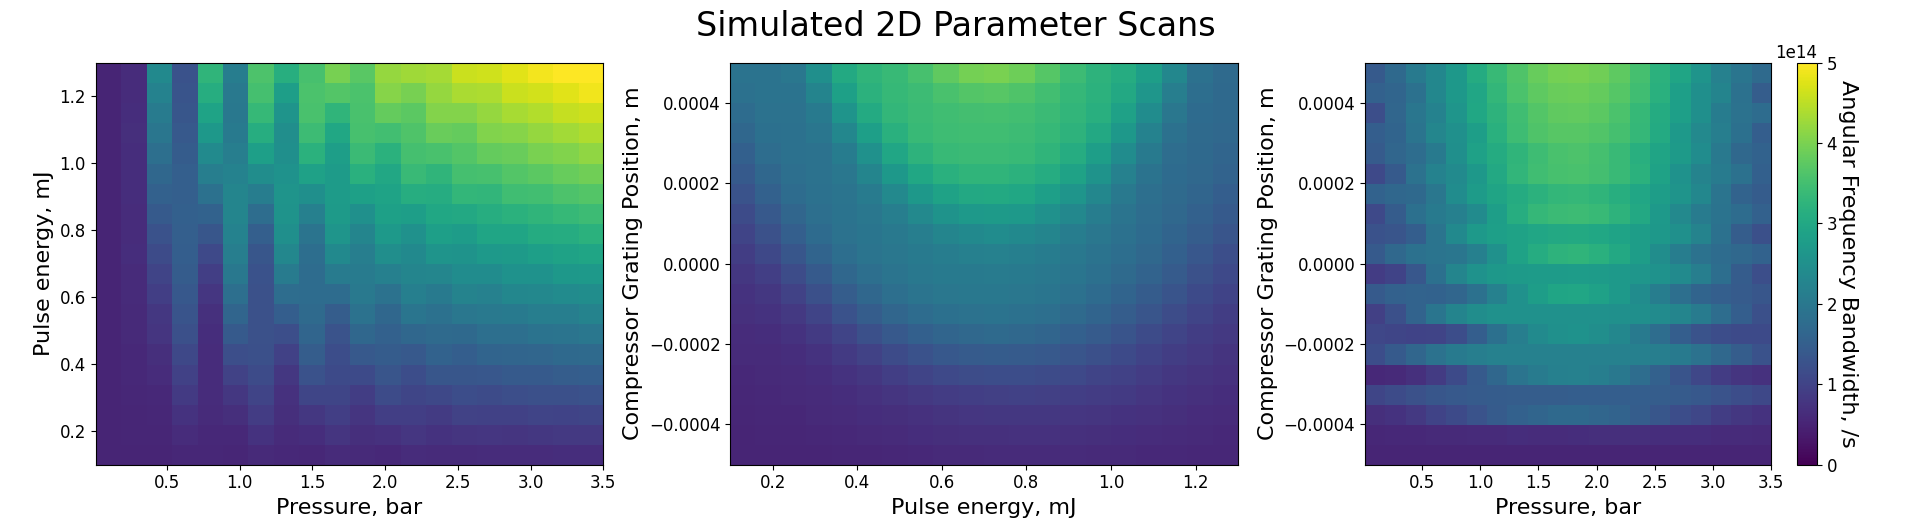
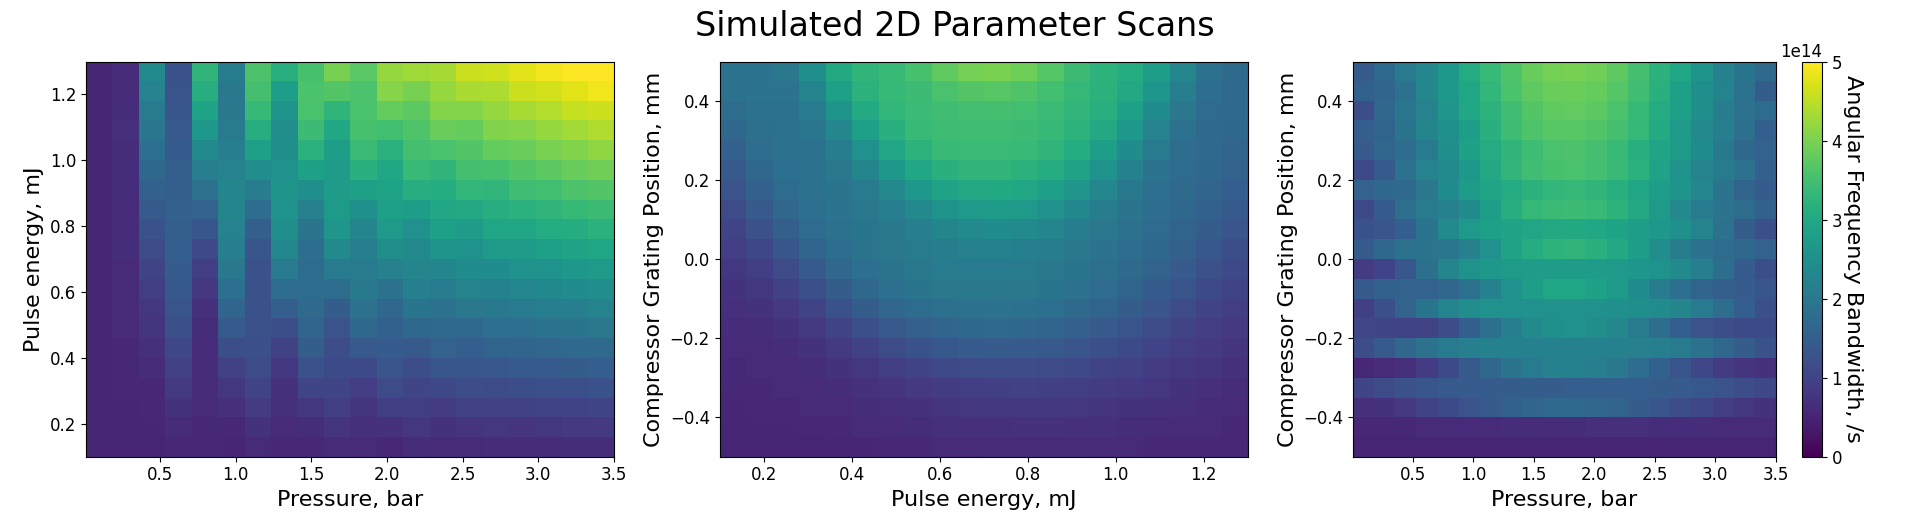
changed compressor grating to mm

diff --git a/HCF sim/Python/building_datasets/gaussian_input/angfreq_bandwidth/energy_pressure_GDD_BO/plot_results.py b/HCF sim/Python/building_datasets/gaussian_input/angfreq_bandwidth/energy_pressure_GDD_BO/plot_results.py
@@ -33,9 +33,9 @@ for i in range(num_points):
     widths_E_G_shaped[i] = widths_E_G[i*20:20+i*20]
 
 #plt.figure()
-axs[1].imshow(widths_E_G_shaped, extent=(np.amin(energies), np.amax(energies) ,np.amin(grating_positions), np.amax(grating_positions)), aspect = 'auto', origin="lower", vmin=0, vmax=5e14)
+axs[1].imshow(widths_E_G_shaped, extent=(np.amin(energies), np.amax(energies) ,np.amin(grating_positions)*(10**3), np.amax(grating_positions)*(10**3)), aspect = 'auto', origin="lower", vmin=0, vmax=5e14)
 axs[1].set_xlabel("Pulse energy, mJ")
-axs[1].set_ylabel("Compressor Grating Position, m")
+axs[1].set_ylabel("Compressor Grating Position, mm")
 #cbar = plt.colorbar()
 #cbar.ax.set_ylabel('Angular Frequency Bandwidth, /s', rotation=270, labelpad=15)
 
@@ -49,9 +49,9 @@ for i in range(num_points):
     widths_P_G_shaped[i] = widths_P_G[i*20:20+i*20]
 
 #plt.figure()
-im = axs[2].imshow(widths_P_G_shaped, extent=(np.amin(pressures), np.amax(pressures),np.amin(grating_positions), np.amax(grating_positions)), aspect = 'auto', origin="lower", vmin=0, vmax=5e14)
+im = axs[2].imshow(widths_P_G_shaped, extent=(np.amin(pressures), np.amax(pressures),np.amin(grating_positions)*(10**3), np.amax(grating_positions)*(10**3)), aspect = 'auto', origin="lower", vmin=0, vmax=5e14)
 axs[2].set_xlabel("Pressure, bar")
-axs[2].set_ylabel("Compressor Grating Position, m")
+axs[2].set_ylabel("Compressor Grating Position, mm")
 
 cbar = f.colorbar(im, orientation='vertical')
 cbar.ax.set_ylabel('Angular Frequency Bandwidth, /s', rotation=270, labelpad=15)
